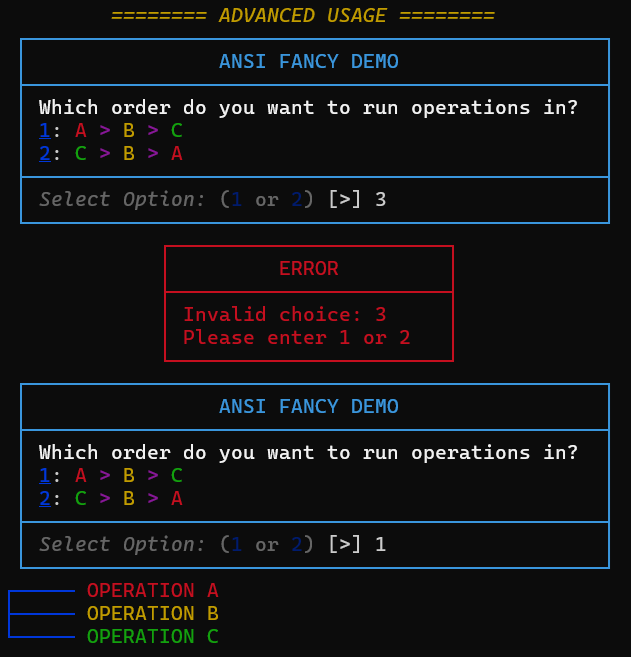
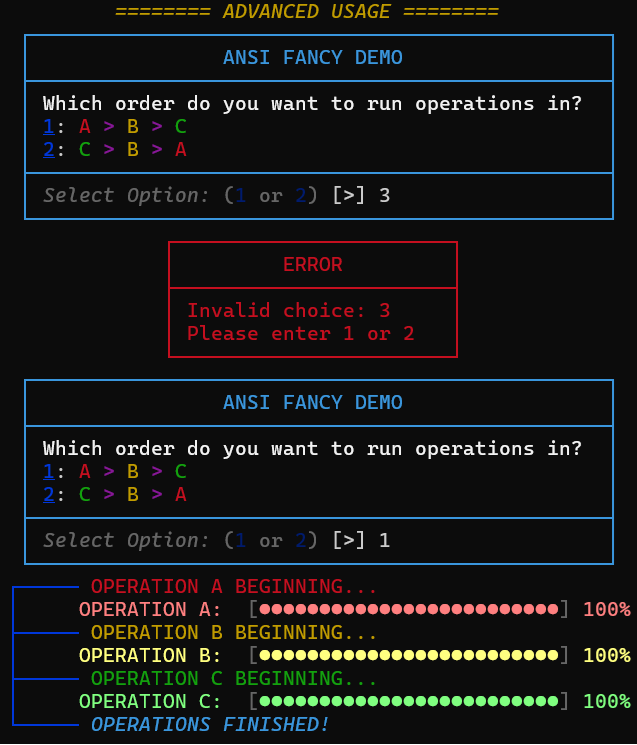
Feature Update - Progress Bars
Adds ProgressBar for displaying stepwise processes. Adds 8-Bit and 24-Bit color support. Updates Config for bar settings.  Updates Demo to demonstrate functions. Updates README to describe features.

Changed region(s): [[0.0, 0.0, 0.9937, 1.0]]

diff --git a/ANSI_Fancy.h b/ANSI_Fancy.h
@@ -396,4 +396,77 @@ static inline char *MenuBoxPrompt(char *boxColor, int boxWidth, int boxHeight, c
     return userInput;       // Return the user's input for external use.
 }
 
+// Displays a stylized loading bar with a label and a percentage readout (compatible with flows).
+static inline void ProgressBar(char *barColor, int maxBarWidth, const char *label, long current, long total, int isUpdate) {
+    if (total <= 0) return;                         // If there is no total (no bar to print), return to avoid division by zero when determining percentage.
+    if (isUpdate) printf(ANSI_RETURN);              // If updating the existing bar, move the cursor back up and erase the line to overwrite it.
+
+    int percentage = (int)((current * 100LL) / total);      // Determine the percentage of the loading bar to fill.
+    if (percentage > 100) percentage = 100;                 // Cap the percentage at 100%.
+
+    int indent = 8;                                                 // Account for spaces and percentage.
+    int labelLen = GetRegularCharacters(label);                     // Determine the length of the label.
+    int flowOffset = insideFlow ? (1 + flowWidth) : 0;              // Determine whether or not to offset (if a flow is active).
+    int availableWidth = CONSOLE_WIDTH - indent - flowOffset;       // Determine the width available for printing the loading bar.
+
+    int minBarWidth = 4;                                                        // Set the minimum amount of loading bar ticks (25% increments).
+    int maxLabelWidth = availableWidth - minBarWidth;                           // Determine the maximum amount of room available for the label.
+    int textRoom = (labelLen > maxLabelWidth) ? maxLabelWidth : labelLen;       // Determine whether to truncate the label or not based on available space.
+
+    int remainingSpace = availableWidth - textRoom;                                         // Determine the amount of leftover space available to print the bar.
+    int activeBarWidth = (maxBarWidth < remainingSpace) ? maxBarWidth : remainingSpace;     // Determine whether to truncate the bar or not based on available space.
+
+    char adjustedText[256] = {0};       // Store the label string in case it needs to be shortened.
+    //  If the label is truncated, add an elipsis (...) to indicate.
+    if (labelLen > maxLabelWidth && maxLabelWidth > 3) {
+        strncpy(adjustedText, label, maxLabelWidth - 3);
+        strcat(adjustedText, "...");
+    // Copy the label to the adjusted text, then add a null terminator.
+    } else {
+        strncpy(adjustedText, label, textRoom);
+        adjustedText[textRoom] = '\0';
+    }
+
+    int filledLength = (percentage * activeBarWidth) / 100;     // Determine how many ticks should be colored (filled) and how many are unfilled (empty).
+
+    if (insideFlow) printf("%s│%*s" ANSI_RESET, currentFlowColor, flowWidth, "");       // If a flow is active, print the vertical separator line first and indent.
+
+    // Print the label, the opening bracket for the bar, and set the color for the progress part
+    printf("%s%s" ANSI_RESET ANSI_DIM " [" ANSI_RESET, barColor, adjustedText);
+
+    // Loop through the bar's width, printing a filled tick for progress or an empty tick for remaining work.
+    for (int i = 0; i < activeBarWidth; i++) {
+        if (i < filledLength) printf("%s" BAR_FILLED ANSI_RESET, barColor);
+        else printf(ANSI_DIM BAR_EMPTY ANSI_RESET);
+    }
+
+    printf(ANSI_DIM "]" ANSI_RESET " %s%3d%%" ANSI_RESET "  \n", barColor, percentage);   // Print the closing bracket and the percentage number.
+
+    fflush(stdout); // Force the output to appear on the screen immediately.
+}
+
+/*
+    Examples of progress bars inside of flows (with CONSOLE_WIDTH set to 52):
+
+    FlowStart(ANSI_BLUE, 2); // Start a blue flow.
+    FlowAdd("Initializing progress bar...");
+
+    ProgressBar(GetRGBColor(64, 255, 64), 256, "PROGRESS: ", 0, 100, 0); // Initial creation of the bar (isUpdate = 0).
+
+    // Simulate progress updates
+    for (int i = 1; i <= 100; i ++) {
+        Sleep(50);                                                              // Wait 50 milliseconds (0.05 seconds) to simulate processing.
+        ProgressBar(GetRGBColor(64, 255, 64), 256, "PROGRESS: ", i, 100, 1);     // Update the loading bar (isUpdate = 1).
+    }
+    ProgressBar(GetRGBColor(128, 255, 128), 256, "PROGRESS: ", 100, 100, 1);     // Update the loading bar with a brighter color once it completes.
+
+    FlowAdd("Bar complete!");   // Add a completion message.
+    FlowFinish();               // Finish the flow.
+
+┌──Initializing progress bar...
+│  PROGRESS:  [●●●●●●●●●●●●●●●●●●●●●●●●●●●●●●●] 100%
+└──Bar complete!
+
+*/
+
 #endif // ANSI_FANCY_H_INCLUDED

diff --git a/main.c b/main.c
@@ -31,6 +31,21 @@ int main() {
 
 
 
+    printf("\n");
+
+    ProgressBar(GetRGBColor(64, 255, 64), 256, "PROGRESS: ", 0, 100, 0); // Initial creation of the bar (isUpdate = 0).
+
+    // Simulate progress updates.
+    for (int i = 1; i <= 100; i ++) {
+        Sleep(5);                                                              // Wait 5 milliseconds (0.005 seconds) to simulate processing.
+        ProgressBar(GetRGBColor(64, 255, 64), 256, "PROGRESS: ", i, 100, 1);     // Update the loading bar (isUpdate = 1).
+    }
+    ProgressBar(GetRGBColor(128, 255, 128), 256, "PROGRESS: ", 100, 100, 1);     // Update the loading bar with a brighter color once it completes.
+
+    printf("\n");
+
+
+
 
     printf("\n         " ANSI_YELLOW ANSI_SLANT "======== ADVANCED USAGE ========" ANSI_RESET "\n");
 
@@ -46,16 +61,60 @@ int main() {
         char *response = MenuBoxPrompt(ANSI_CYAN, 50, 3, "ANSI FANCY DEMO", menuBoxPromptContent, ANSI_DIM ANSI_SLANT ANSI_WHITE "Select Option: " ANSI_RESET ANSI_DIM "(" ANSI_BLUE "1 " ANSI_RESET ANSI_DIM "or " ANSI_DIM ANSI_BLUE "2" ANSI_RESET ANSI_DIM ")" ANSI_RESET);
         if (atoi(response) == 1) {
             FlowStart(ANSI_BLUE, 5);
-            FlowAdd(ANSI_RED " OPERATION A" ANSI_RESET);
-            FlowAdd(ANSI_YELLOW " OPERATION B" ANSI_RESET);
-            FlowAdd(ANSI_GREEN " OPERATION C" ANSI_RESET);
+            FlowAdd(ANSI_RED " OPERATION A BEGINNING..." ANSI_RESET);
+            ProgressBar(GetRGBColor(128, 64, 64), 256, "OPERATION A: ", 0, 100, 0);
+            for (int i = 1; i <= 100; i ++) {
+            Sleep(5);
+            ProgressBar(GetRGBColor(128, 64, 64), 256, "OPERATION A: ", i, 100, 1);
+            }
+            ProgressBar(GetRGBColor(255, 128, 128), 256, "OPERATION A: ", 100, 100, 1);
+
+            FlowAdd(ANSI_YELLOW " OPERATION B BEGINNING..." ANSI_RESET);
+            ProgressBar(GetRGBColor(128, 128, 64), 256, "OPERATION B: ", 0, 100, 0);
+            for (int i = 1; i <= 100; i ++) {
+            Sleep(5);
+            ProgressBar(GetRGBColor(128, 128, 64), 256, "OPERATION B: ", i, 100, 1);
+            }
+            ProgressBar(GetRGBColor(255, 255, 128), 256, "OPERATION B: ", 100, 100, 1);
+
+            FlowAdd(ANSI_GREEN " OPERATION C BEGINNING..." ANSI_RESET);
+            ProgressBar(GetRGBColor(64, 128, 64), 256, "OPERATION C: ", 0, 100, 0);
+            for (int i = 1; i <= 100; i ++) {
+            Sleep(5);
+            ProgressBar(GetRGBColor(64, 128, 64), 256, "OPERATION C: ", i, 100, 1);
+            }
+            ProgressBar(GetRGBColor(128, 255, 128), 256, "OPERATION C: ", 100, 100, 1);
+
+            FlowAdd(ANSI_SLANT ANSI_CYAN " OPERATIONS FINISHED!" ANSI_RESET);
             FlowFinish();
             choosing = 0;
         } else if (atoi(response) == 2) {
             FlowStart(ANSI_BLUE, 5);
-            FlowAdd(ANSI_GREEN " OPERATION C" ANSI_RESET);
-            FlowAdd(ANSI_YELLOW " OPERATION B" ANSI_RESET);
-            FlowAdd(ANSI_RED " OPERATION A" ANSI_RESET);
+            FlowAdd(ANSI_GREEN " OPERATION C BEGINNING..." ANSI_RESET);
+            ProgressBar(GetRGBColor(64, 128, 64), 256, "OPERATION C: ", 0, 100, 0);
+            for (int i = 1; i <= 100; i ++) {
+            Sleep(5);
+            ProgressBar(GetRGBColor(64, 128, 64), 256, "OPERATION C: ", i, 100, 1);
+            }
+            ProgressBar(GetRGBColor(128, 255, 128), 256, "OPERATION C: ", 100, 100, 1);
+
+            FlowAdd(ANSI_YELLOW " OPERATION B BEGINNING..." ANSI_RESET);
+            ProgressBar(GetRGBColor(128, 128, 64), 256, "OPERATION B: ", 0, 100, 0);
+            for (int i = 1; i <= 100; i ++) {
+            Sleep(5);
+            ProgressBar(GetRGBColor(128, 128, 64), 256, "OPERATION B: ", i, 100, 1);
+            }
+            ProgressBar(GetRGBColor(255, 255, 128), 256, "OPERATION B: ", 100, 100, 1);
+
+            FlowAdd(ANSI_RED " OPERATION A BEGINNING..." ANSI_RESET);
+            ProgressBar(GetRGBColor(128, 64, 64), 256, "OPERATION A: ", 0, 100, 0);
+            for (int i = 1; i <= 100; i ++) {
+            Sleep(5);
+            ProgressBar(GetRGBColor(128, 64, 64), 256, "OPERATION A: ", i, 100, 1);
+            }
+            ProgressBar(GetRGBColor(255, 128, 128), 256, "OPERATION A: ", 100, 100, 1);
+
+            FlowAdd(ANSI_SLANT ANSI_CYAN " OPERATIONS FINISHED!" ANSI_RESET);
             FlowFinish();
             choosing = 0;
         } else {

diff --git a/ANSI_Fancy_Config.h b/ANSI_Fancy_Config.h
@@ -9,6 +9,9 @@
 
 #define PROMPT_MARK "[>]"           // The symbol(s) used to indicate a user input.
 
+#define BAR_FILLED "●"              // The symbol used to indicate a filled progress bar tick.
+#define BAR_EMPTY "○"               // The symbol used to indicate an empty progress bar tick.
+
 
 // Define ANSI escape codes for ease of terminal formatting
 #define ANSI_PREFIX "\x1b"
@@ -49,6 +52,20 @@ static inline void InitializeConsole() {
     SetConsoleMode(hOut, dwMode | ENABLE_VIRTUAL_TERMINAL_PROCESSING);
     // This ensures the characters render properly.
     SetConsoleOutputCP(CP_UTF8);
+}
+
+// Convert RGB colors into ANSI escape sequences using 8-bit notation (ANSI_ESCAPE 38;5;COLORm) for 256 total colors.
+static inline const char* Get8BitColor(int color) {
+    static char colorCode[32];                                                      // Stores the text for the ANSI escape code.
+    snprintf(colorCode, sizeof(colorCode), ANSI_PREFIX "[38;5;%dm", color);         // Read the chosen colors into the escape code.
+    return colorCode;                                                               // Return the color code to the user.
+}
+
+// Convert RGB colors into ANSI escape sequences using 24-bit notation (ANSI_ESCAPE R;G;Bm) for 16,777,216 total colors.
+static inline const char* GetRGBColor(int r, int g, int b) {
+    static char colorCode[32];                                                           // Stores the text for the ANSI escape code.
+    snprintf(colorCode, sizeof(colorCode), ANSI_PREFIX "[38;2;%d;%d;%dm", r, g, b);      // Read the chosen colors into the escape code.
+    return colorCode;                                                                    // Return the color code to the user.
 }
 
 // Characters which can be used as break points are specified here.
@@ -100,7 +117,5 @@ static inline int GetRegularCharacters(char *text) {
     }
     return regularCharacters;
 }
-
-
 
 #endif // ANSI_FANCY_CONFIG_H_INCLUDED

diff --git a/README.md b/README.md
@@ -9,9 +9,12 @@ A header-only C library for Windows to create colorized formatted text in the co
 This project provides a simple way to format terminal output with box-drawing characters and color support. It includes automatic word-wrapping and structural management, perfect for CLI tools that need to present hierarchical data or stepwise logs.
 
 ### ✨ Features
+* **24-Bit Color:** Access to 16,777,216 different colors (with additional 8-bit color support).
+* **Font Styles:** Acess to 7 different font options, including Bold, Underlined, and Italic.
 * **Flows:** Create grouped, connected lists of text with customizable indentation.
 * **Menu Boxes:** Create centered boxes with a header and listed content items.
 * **Menu Boxes with Prompts:** Create Menu Boxes which prompt the user for input.
+* **Progress Bars:** Create customizable loading bars, compatible with flows.
 
 <p align="center">
   <img src="DemoOutput.png" alt="Quick start output" />
@@ -36,6 +39,7 @@ This project provides a simple way to format terminal output with box-drawing ch
 3.  Add a (null terminated) char pointer array for the menu content.
 4.  Use the MenuBox function to display some data.
 5.  Use the `Flow` functions to structure your output.
+6.  Track progress in stepwise events using progress bars.
 
 ```c
 #include <stdio.h>
@@ -64,6 +68,18 @@ int main() {
 
     // Close the flow with the bottom connector.
     FlowFinish();
+
+    printf("\n");
+    
+    // Initial creation of the bar (isUpdate = 0).
+    ProgressBar(GetRGBColor(64, 255, 64), 256, "PROGRESS: ", 0, 100, 0); 
+
+    // Simulate progress updates.
+    for (int i = 1; i <= 100; i ++) {
+        Sleep(5);                                                                   // Wait 5 milliseconds (0.005 seconds) to simulate processing.
+        ProgressBar(GetRGBColor(64, 255, 64), 256, "PROGRESS: ", i, 100, 1);        // Update the loading bar (isUpdate = 1).
+    }
+    ProgressBar(GetRGBColor(128, 255, 128), 256, "PROGRESS: ", 100, 100, 1);        // Update the loading bar with a brighter color once it completes.
 }
 ```
 Output (with CONSOLE_WIDTH set to 52):